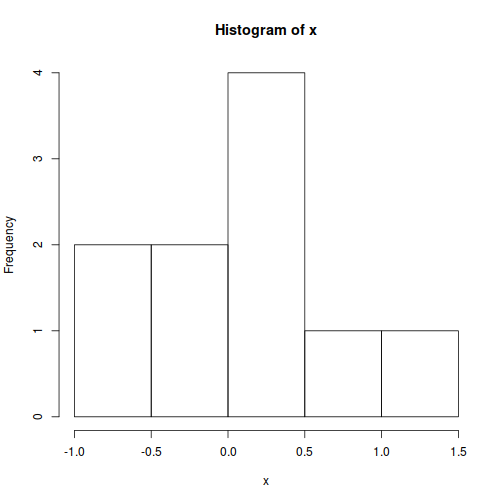
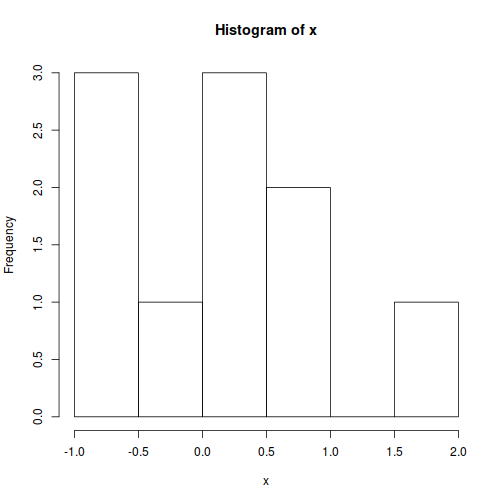
Include rsync file with directories to exclude from rsyncing

diff --git a/content/post/testing.md b/content/post/testing.md
@@ -22,8 +22,8 @@ x
 ```
 
 ```
-##  [1] -0.18382704 -0.75916682  0.84185165  0.18241534 -0.95325356
-##  [6] -0.41166348  1.21606146  0.43104702  0.02365191  0.05615554
+##  [1] -0.6264538  0.1836433 -0.8356286  1.5952808  0.3295078 -0.8204684
+##  [7]  0.4874291  0.7383247  0.5757814 -0.3053884
 ```
 
 A local figure:
